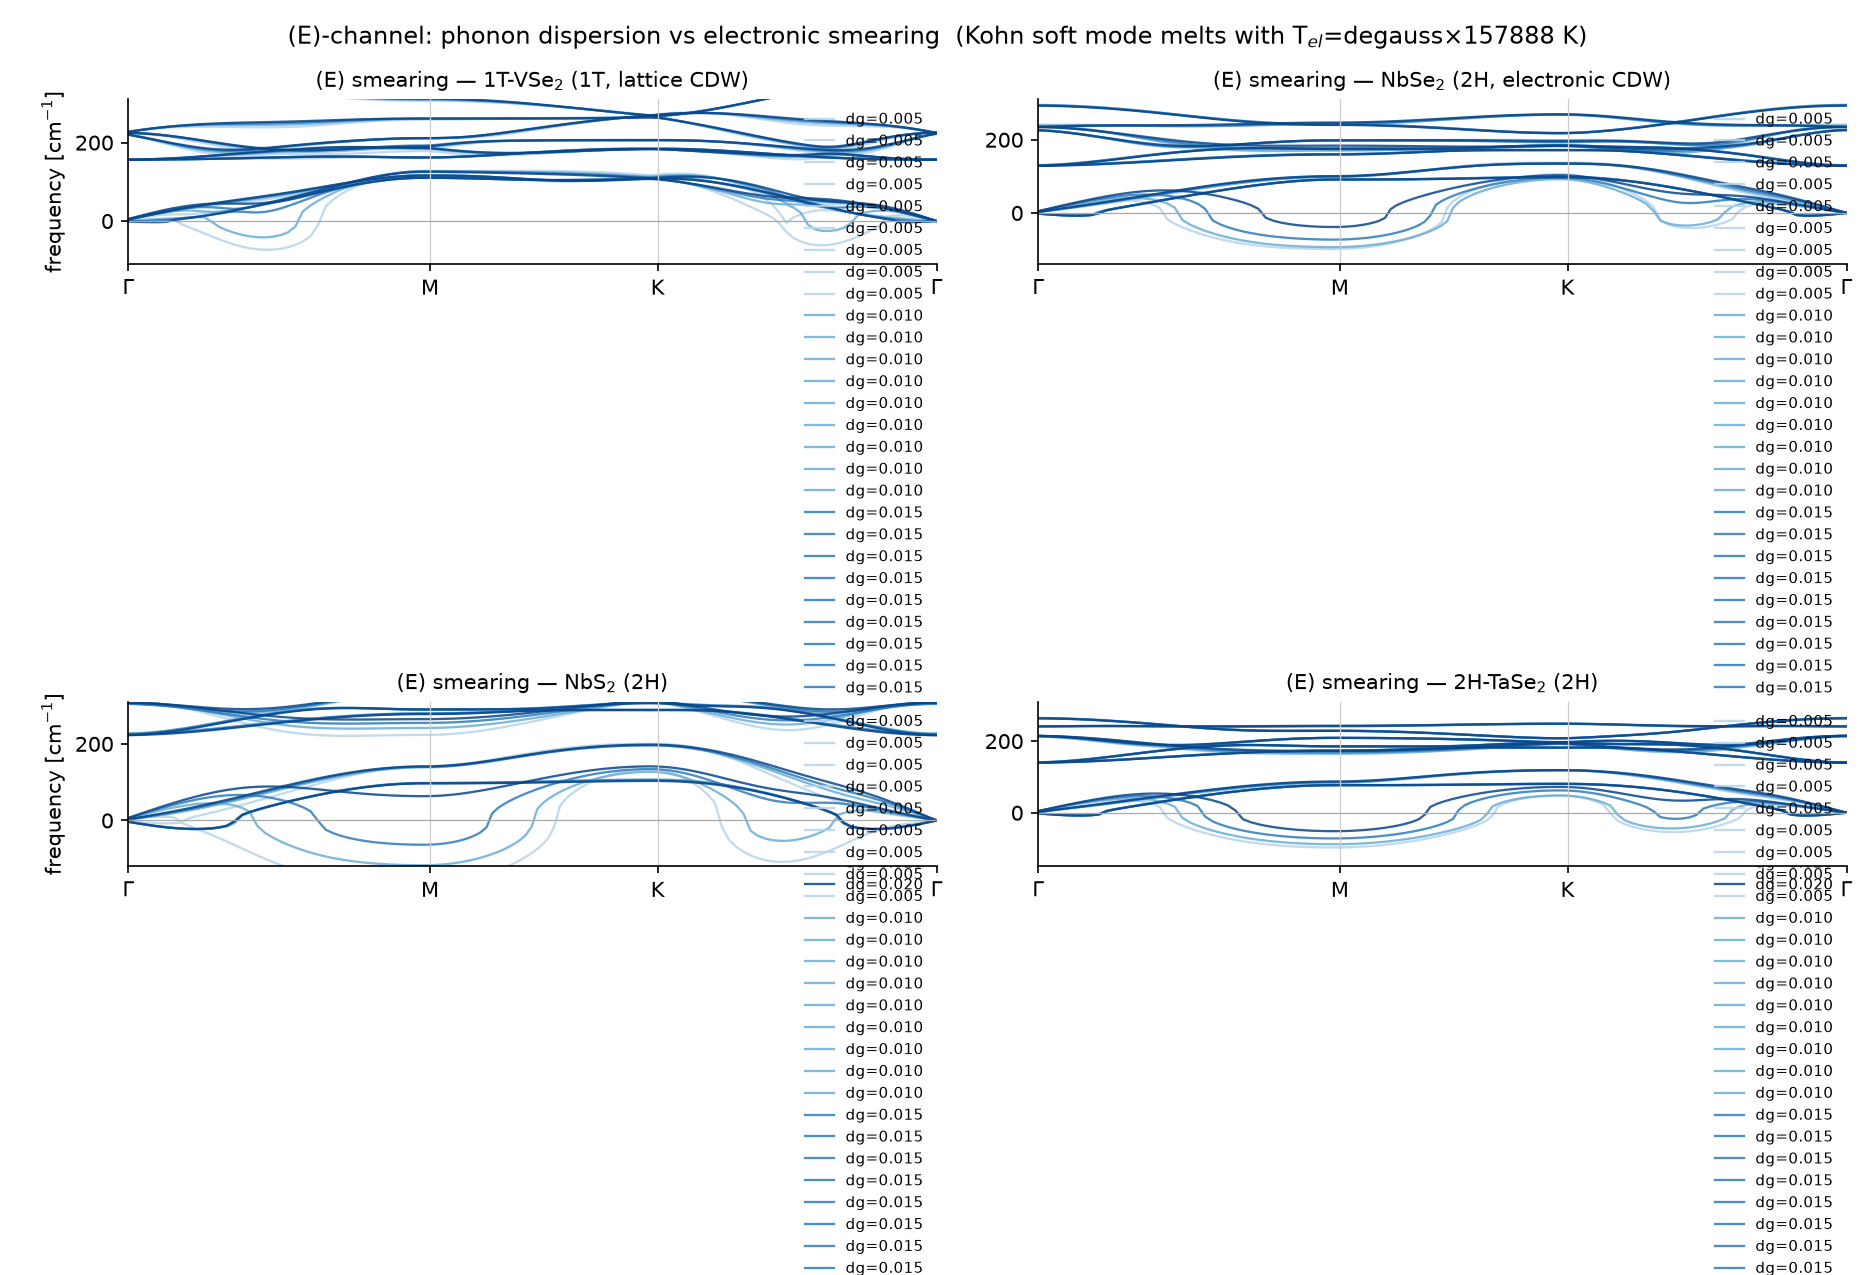
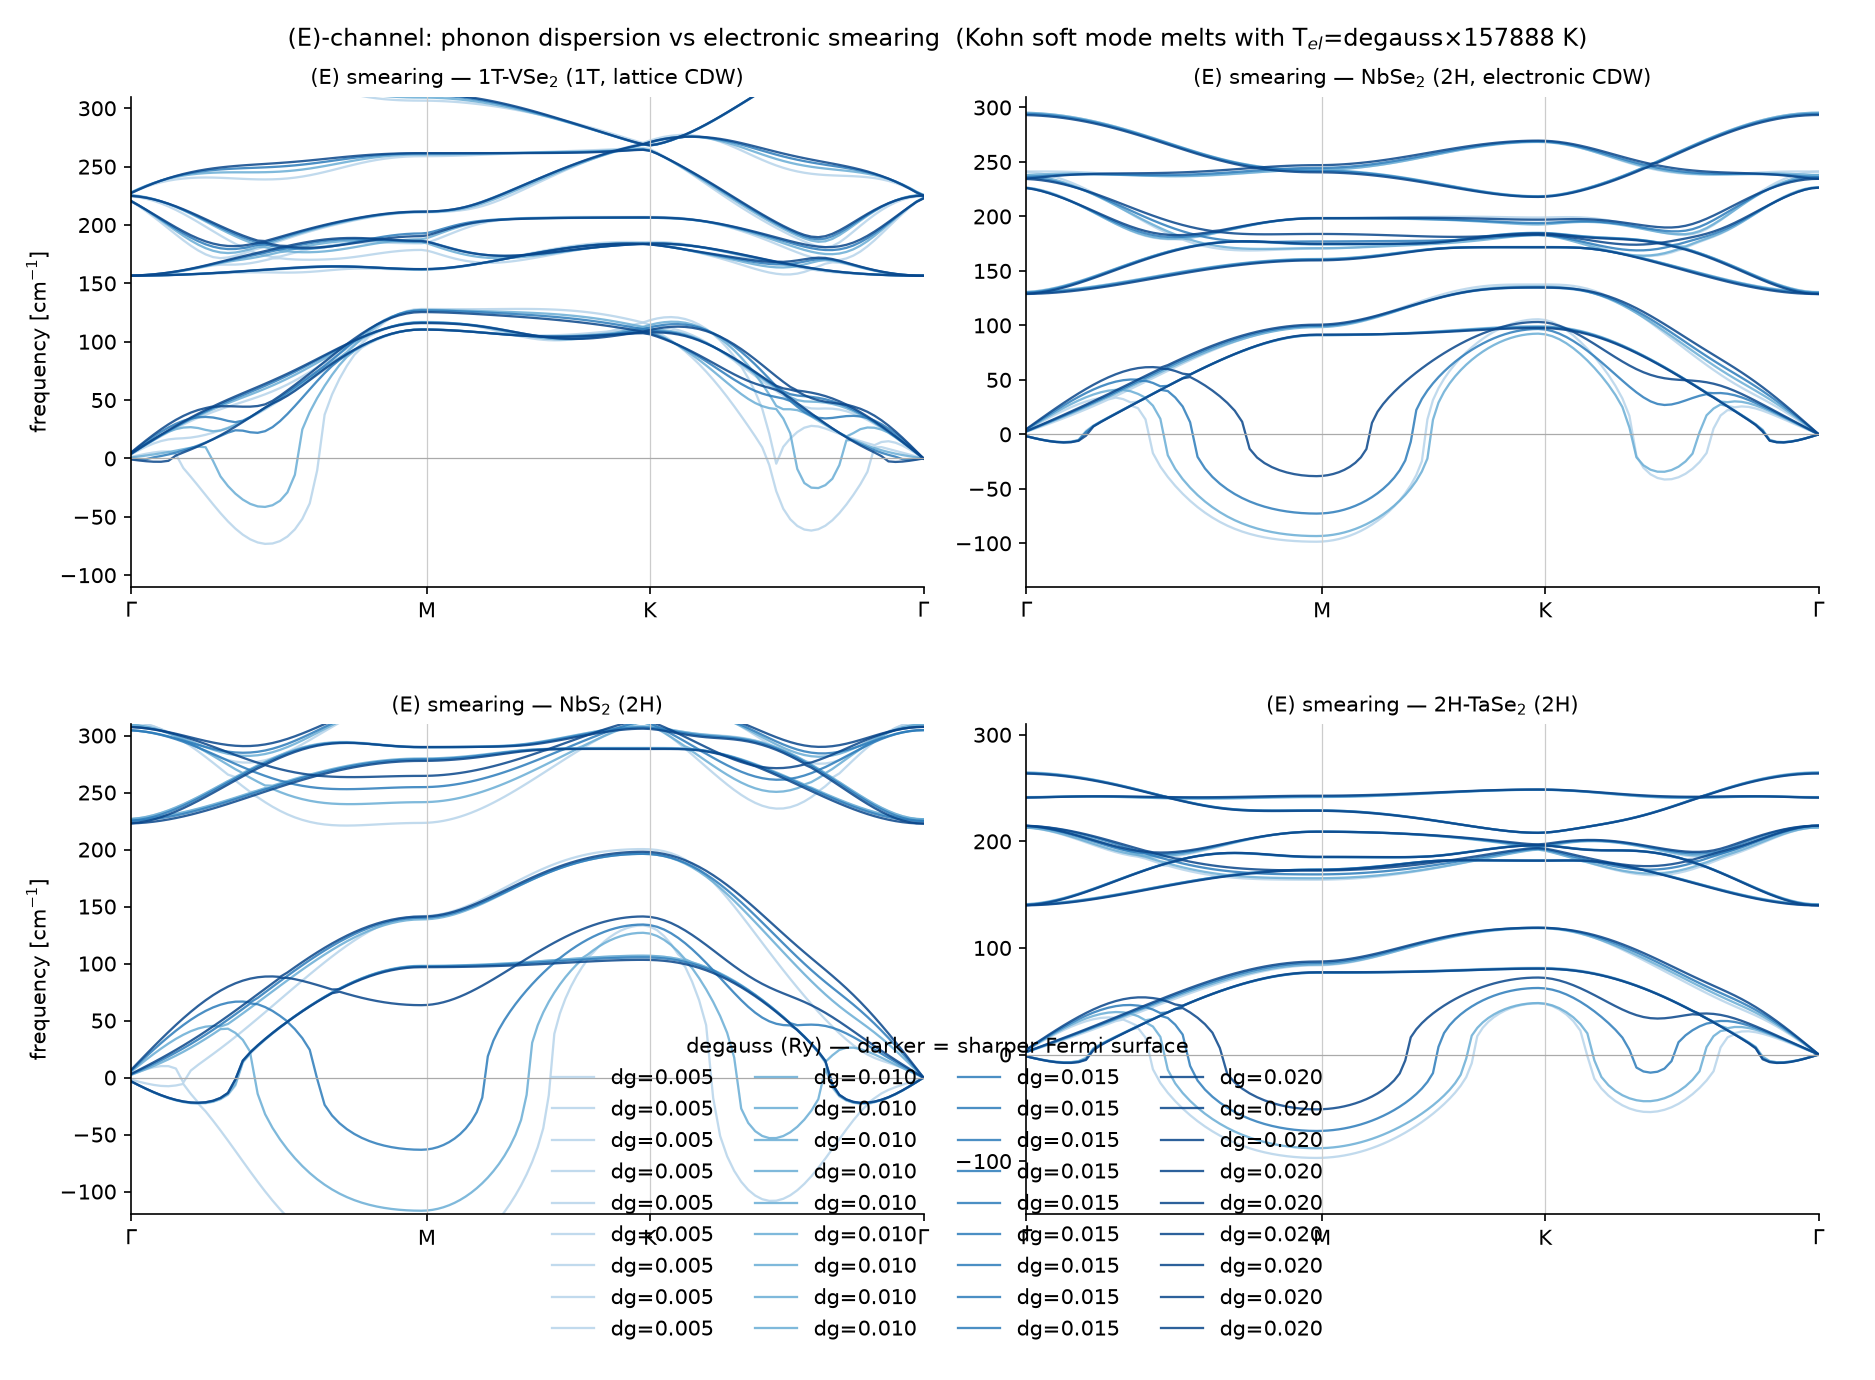
spectra: fix legends (outside plot area) + add Kohn-kink vs smearing/temperature comparison
- (E) spectra: single shared legend below panels (was overlapping bands).
- (L) TDEP spectrum: legend on top, outside; fixed portrait aspect.
- NEW kink_vs_Tel_Tlat.png: Kohn soft-mode depth vs T_el (melts) and T_lat (heals@T_CDW).
- report: embed the kink-comparison figure in the smearing-vs-temperature section.

diff --git a/scripts/smearing_kink/plot_phonon_spectra.py b/scripts/smearing_kink/plot_phonon_spectra.py
@@ -88,7 +88,7 @@ def plot_E():
     ]
     cmap = plt.cm.Blues
     n = 4
-    fig, axes = plt.subplots(2, 2, figsize=(12.5, 8.5))
+    fig, axes = plt.subplots(2, 2, figsize=(12.5, 9.2))
     for ax, (mat, ylim, files) in zip(axes.flat, mats):
         tick_x = None
         for i, (dg, yml) in enumerate(files):
@@ -105,14 +105,17 @@ def plot_E():
         ax.axhline(0, color="#aaa", lw=0.6)
         ax.set_title(f"(E) smearing — {mat}", fontsize=10)
         ax.set_ylim(*ylim)
-        ax.legend(fontsize=7, loc="upper right", frameon=False)
         for s in ("top", "right"):
             ax.spines[s].set_visible(False)
     for ax in axes[:, 0]:
         ax.set_ylabel("frequency [cm$^{-1}$]")
+    # single shared legend OUTSIDE (below the panels) — generous bottom margin, no tight crop
+    handles, labels = axes.flat[0].get_legend_handles_labels()
+    fig.legend(handles, labels, loc="lower center", ncol=4, bbox_to_anchor=(0.5, 0.015),
+               frameon=False, fontsize=10, title="degauss (Ry) — darker = sharper Fermi surface")
     fig.suptitle("(E)-channel: phonon dispersion vs electronic smearing  (Kohn soft mode melts with T$_{el}$=degauss×157888 K)",
-                 fontsize=11.5)
-    fig.tight_layout()
+                 fontsize=11.5, y=0.98)
+    fig.subplots_adjust(left=0.07, bottom=0.12, right=0.97, top=0.93, hspace=0.28, wspace=0.13)
     out = SK / "spectra_E_smearing.png"
     fig.savefig(out, dpi=150); print("wrote", out)
 
@@ -165,27 +168,86 @@ def plot_L_tdep():
     d = np.load(npz, allow_pickle=True)
     Ts = [50, 80, 110, 150, 200, 300]
     cmap = plt.cm.Reds
-    fig, ax = plt.subplots(figsize=(7.5, 5.2))
+    fig, ax = plt.subplots(figsize=(8.2, 5.2))
     ticks = d["label_positions"]; labels = [str(l) for l in d["labels"]]
     for i, T in enumerate(Ts):
         if f"T{T}_freq" not in d:
             continue
         dist = d[f"T{T}_dist"]; freq = d[f"T{T}_freq"] * 33.356  # THz -> cm^-1
         ax.plot(dist, freq, color=cmap(0.30 + 0.62 * i / (len(Ts) - 1)), lw=1.2, alpha=0.8,
-                label=f"T$_{{lat}}$={T} K")
+                label=f"{T} K")
     ax.set_xticks(ticks); ax.set_xticklabels(labels)
     for t in ticks[1:-1]:
         ax.axvline(t, color="#ccc", lw=0.6)
     ax.axhline(0, color="#aaa", lw=0.6)
     ax.set_ylabel("frequency [cm$^{-1}$]"); ax.set_ylim(-15, 360)
     ax.set_xlim(ticks[0], ticks[-1])
-    ax.legend(fontsize=8, loc="upper right", frameon=False)
+    # legend OUTSIDE (top, horizontal) so it never covers the bands
+    ax.legend(title="$T_{lat}$", loc="upper center", bbox_to_anchor=(0.5, 1.12), ncol=6,
+              frameon=False, fontsize=8.5, title_fontsize=9)
     ax.set_title("(L) temperature spectrum — 1T-VSe$_2$  (TDEP effective fc$_2$(T), real freqs)", fontsize=10.5)
     for s in ("top", "right"):
         ax.spines[s].set_visible(False)
-    fig.tight_layout()
+    fig.subplots_adjust(left=0.10, bottom=0.10, right=0.97, top=0.80)
     out = SK / "spectra_L_temperature.png"
     fig.savefig(out, dpi=150); print("wrote", out)
+
+
+def plot_kink_comparison():
+    """Kohn-anomaly kink (soft-mode depth at CDW q) vs T_el (smearing) AND vs T_lat (temperature).
+    Left: (E) kink melts with electronic smearing. Right: (L) kink heals with lattice temperature
+    (at T_CDW). The two channels of the kink(T_el, T_lat) variation."""
+    import csv
+    fig, (axE, axL) = plt.subplots(1, 2, figsize=(12.5, 4.8))
+    # ---- (E): |soft-mode| vs T_el (smearing), from family_melting.csv ----
+    melt_path = SK / "family_melting.csv"
+    if melt_path.exists():
+        melt = list(csv.DictReader(open(melt_path)))
+        for mat, col in [("1T-VSe$_2$", "#c0504d"), ("NbSe$_2$", "#2f6f9f"),
+                         ("2H-TaS$_2$", "#2f9f6f"), ("2H-TaSe$_2$", "#9f6f2f")]:
+            rows = sorted([r for r in melt if r["material"] == mat], key=lambda r: float(r["T_el_K"]))
+            if not rows:
+                continue
+            T = [float(r["T_el_K"]) for r in rows]
+            d = [abs(float(r["minfreq_THz"])) for r in rows]
+            axE.plot(T, d, "-o", color=col, lw=1.8, ms=6, label=mat)
+    axE.set_xlabel("electronic smearing  $T_{el}$ [K]  (degauss$\\times$157888)", fontsize=10)
+    axE.set_ylabel("|Kohn soft-mode (kink depth)|  [THz]", fontsize=10)
+    axE.set_title("(E): kink melts with smearing", fontsize=11)
+    axE.legend(fontsize=8, loc="upper right", frameon=False)
+    axE.axhline(0, color="#aaa", lw=0.6)
+    for s in ("top", "right"):
+        axE.spines[s].set_visible(False)
+
+    # ---- (L): |soft-mode| vs T_lat (temperature), from SSCHA csv ----
+    CM2THZ = 1.0 / 33.356
+    for mat, files, col, Tcdw in [("1T-VSe$_2$", ["1T-VSe2_fine.csv", "1T-VSe2_L.csv"], "#c0504d", 110),
+                                   ("1T-TiSe$_2$", ["1T-TiSe2_L.csv"], "#e08a2e", 200)]:
+        pts = []
+        for fn in files:
+            p = TD / fn
+            if not p.exists():
+                continue
+            pts += [(float(r["T_K"]), abs(float(r["sscha_minfreq_cm"])) * CM2THZ)
+                    for r in csv.DictReader(open(p))]
+        pts = sorted(set(pts))
+        if pts:
+            axL.plot([p[0] for p in pts], [p[1] for p in pts], "-o", color=col, lw=1.8, ms=6, label=mat)
+            axL.axvline(Tcdw, color=col, ls=":", lw=1.0, alpha=0.6)
+            axL.text(Tcdw, axL.get_ylim()[1] * 0.85 if axL.get_ylim()[1] > 0 else 8,
+                     f"$T_{{CDW}}$={Tcdw}K", color=col, fontsize=8, ha="center")
+    axL.set_xlabel("lattice temperature  $T_{lat}$ [K]", fontsize=10)
+    axL.set_ylabel("|Kohn soft-mode (kink depth)|  [THz]", fontsize=10)
+    axL.set_title("(L): kink heals with temperature (at $T_{CDW}$)", fontsize=11)
+    axL.legend(fontsize=8, loc="upper right", frameon=False)
+    axL.set_xlim(0, 320)
+    for s in ("top", "right"):
+        axL.spines[s].set_visible(False)
+    fig.suptitle("Kohn-anomaly kink depth vs smearing ($T_{el}$) and temperature ($T_{lat}$) — the two channels of $kink(T_{el},T_{lat})$",
+                 fontsize=11, y=1.0)
+    fig.tight_layout()
+    out = SK / "kink_vs_Tel_Tlat.png"
+    fig.savefig(out, dpi=150, bbox_inches="tight"); print("wrote", out)
 
 
 if __name__ == "__main__":
@@ -193,3 +255,4 @@ if __name__ == "__main__":
     if which in ("E", "both"): plot_E()
     if which in ("L", "both"): plot_L()
     if which in ("Ltdep", "all"): plot_L_tdep()
+    if which in ("kink", "all"): plot_kink_comparison()
